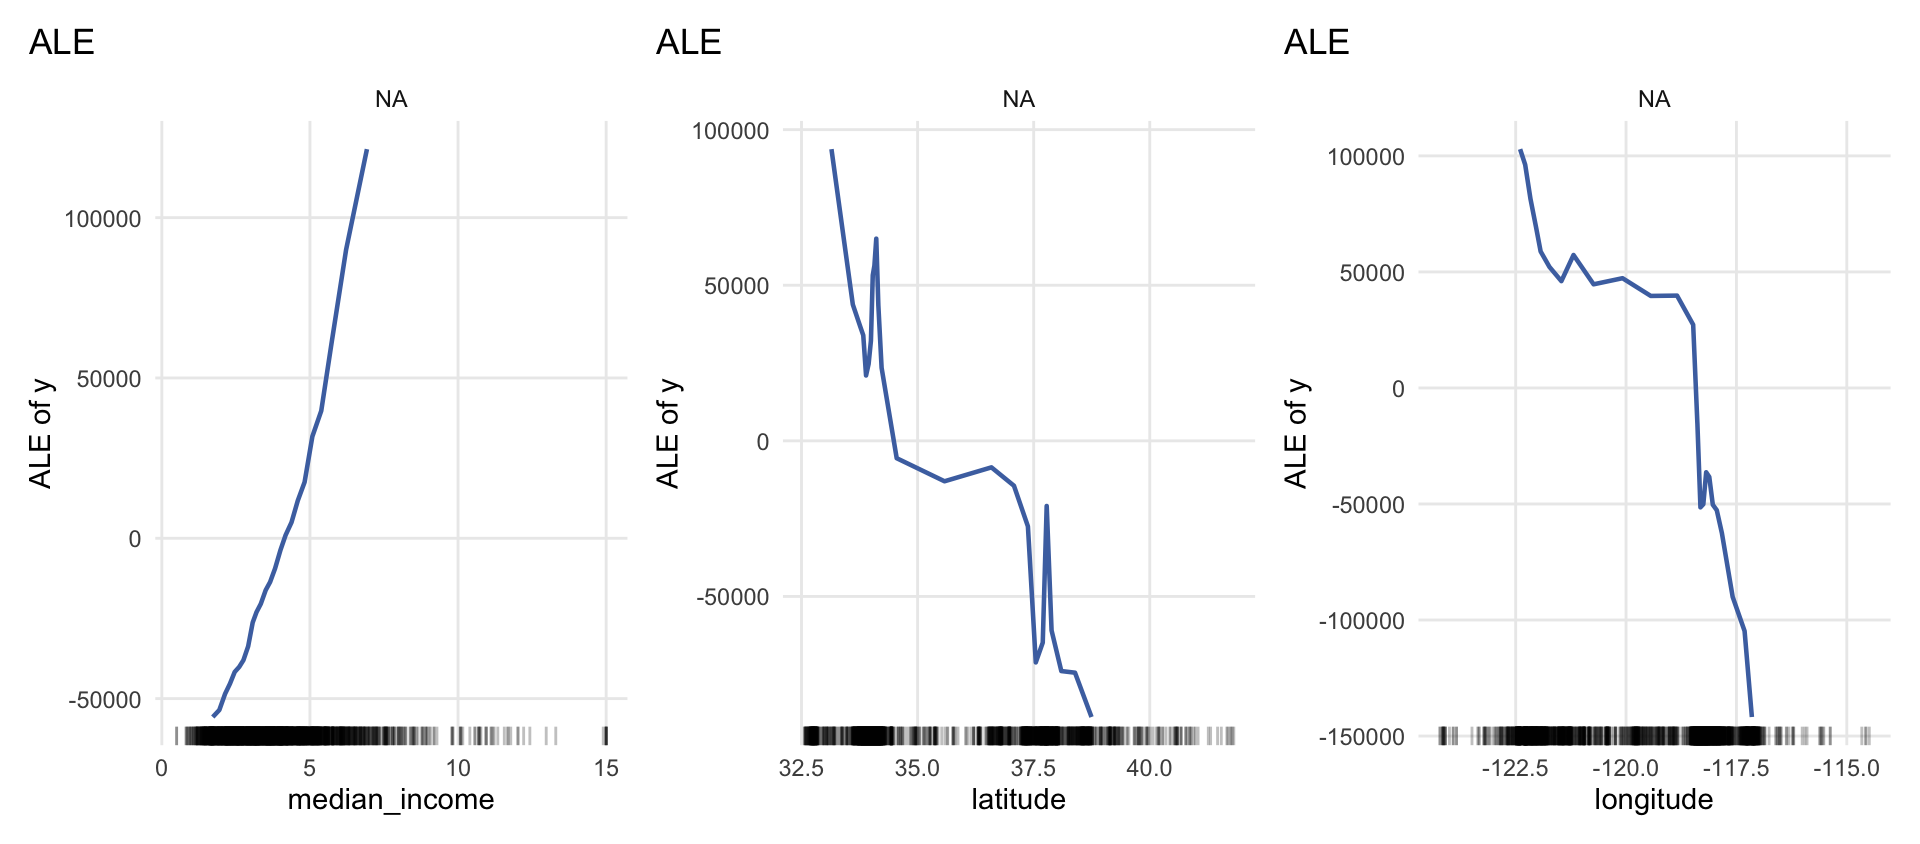
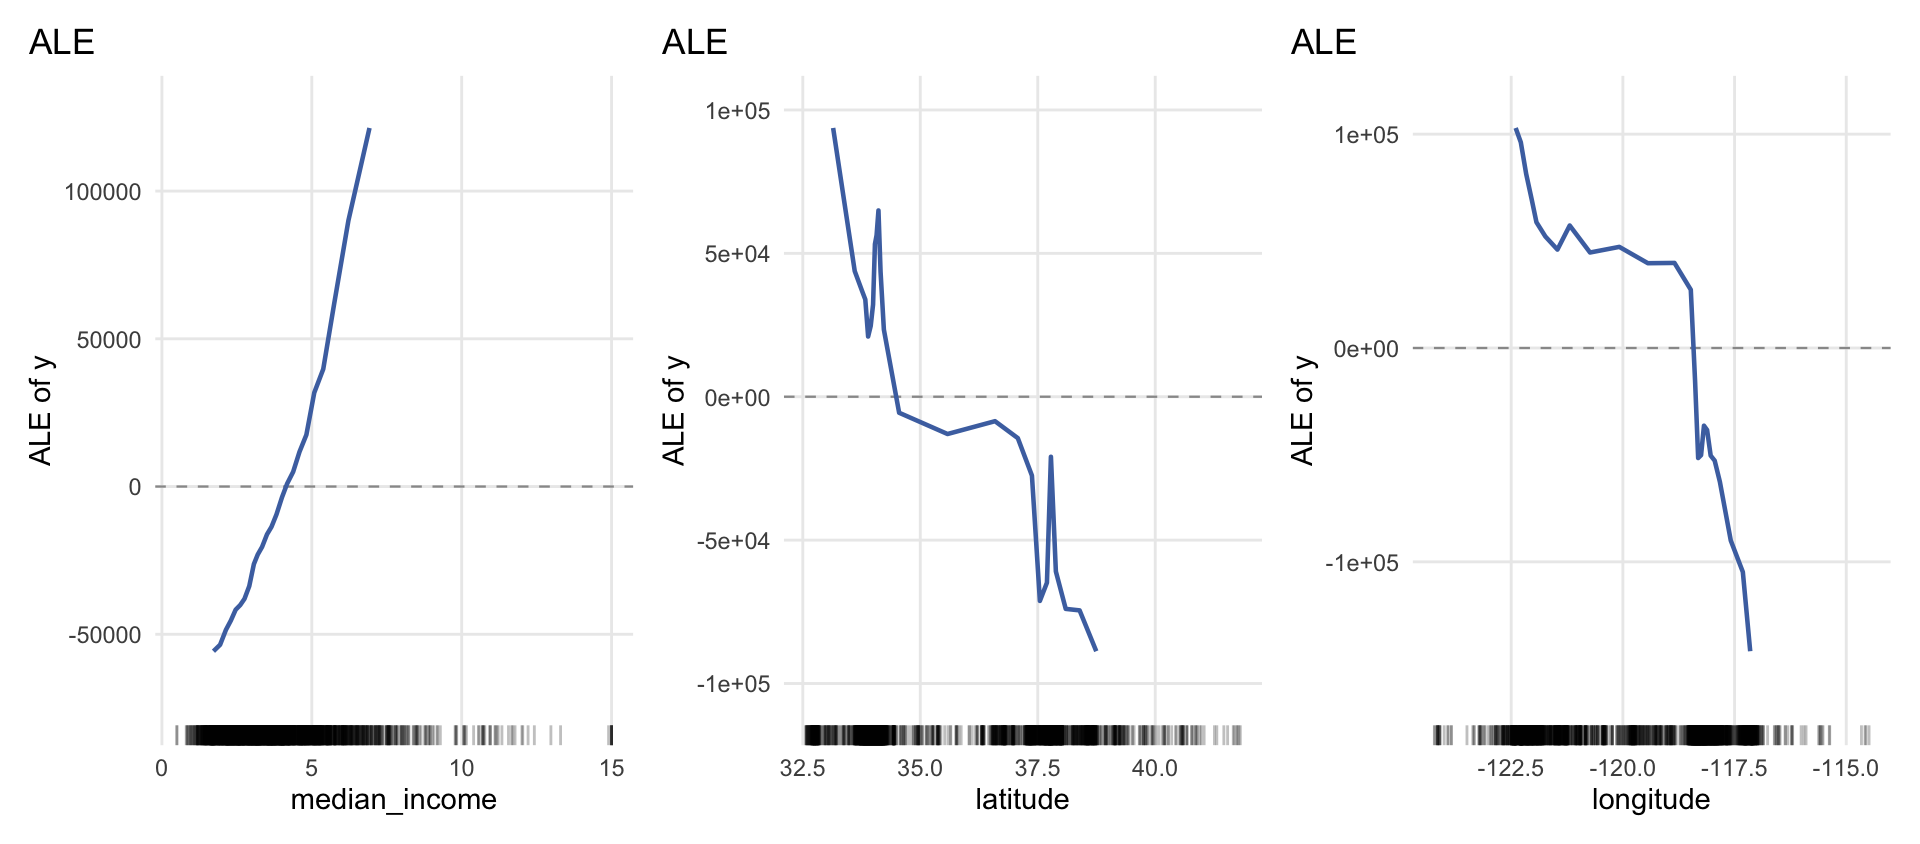
docs: update man pages and README for 0.0.8
Roxygen docs updated for gadget_regionalization (joint multi-feature
description), export_analysis_bundle (exclude_plot_types parameter),
AutoIML$plot (g2_gadget_tree and g2_pint types), make_claim_card (derived
defaults narrative), make_measurement_card (level normalization note), and
plot_gate_01_validity_helpers.

README examples simplified to omit verbose narrative fields from
make_claim_card and make_measurement_card now that Gate 0A derives
conservative defaults automatically.

diff --git a/README.md b/README.md
@@ -40,12 +40,12 @@ task$set_col_roles("personal_status_sex", add_to = "group")
 learner = lrn("classif.rpart", predict_type = "prob", maxdepth = 6L)
 ```
 
-The `ctx$claim` block is a pre-analysis declaration, not a model
-output. Before fitting anything, five questions are worth writing down:
-who is the target population, what use is intended, what is out of
-scope, where should interpretation stop, and why is this threshold
-reasonable? The wording here is illustrative; the structure is the same
-you would use in a real audit.
+The `ctx$claim` block is a pre-analysis declaration, not a model output.
+The operative part is the claim scope, semantics, stakes, and any
+decision thresholds. AutoIML can derive conservative defaults for
+non-use, prohibited interpretations, and decision-policy wording from
+those declarations, so you only need to spell them out when the analysis
+warrants narrower boundaries.
 
 ``` r
 auto = AutoIML$new(
@@ -64,30 +64,11 @@ auto$ctx$claim = make_claim_card(
   decision_spec = list(
     thresholds = seq(0.20, 0.60, by = 0.05),
     utility = list(tp = 1, fp = -0.5, fn = -1, tn = 0)
-  ),
-  target_population = "Loan applicants in the German Credit benchmark population",
-  setting = "Illustrative credit-risk screening benchmark",
-  time_horizon = "Single application review",
-  transport_boundary =
-    "Interpretation limited to applicants similar to the benchmark sample and the declared subgroup structure",
-  intended_use = "Support analyst review of credit-risk screening decisions.",
-  intended_non_use = "Not for automated approval, denial, or enforcement.",
-  prohibited_interpretations = "Causal claims; individual enforcement decisions.",
-  decision_policy_rationale =
-    paste(
-      "Thresholds reflect a conservative screening range where missed high-risk cases",
-      "are costlier than extra manual review."
-    )
+  )
 )
 
 auto$ctx$measurement = make_measurement_card(
-  level = "item",
-  missingness_plan = "Use the benchmark task encoding as provided.",
-  reliability =
-    list(note = "Observed benchmark variables are treated as recorded inputs rather than latent scales."),
-  invariance =
-    list(status = "not-applicable", note = "Subgroup comparisons are descriptive audits of observed benchmark fields."),
-  scoring_pipeline = "Use the provided encoded predictors and binary outcome without additional score construction."
+  level = "item"
 )
 auto$ctx$sensitive_features = "personal_status_sex"
 auto$ctx$alt_learners = list(
@@ -96,10 +77,11 @@ auto$ctx$alt_learners = list(
 auto$ctx$multiplicity$transport_mode = "group_performance"
 ```
 
-The measurement card is declared for the same reason. It documents how
-we are treating the variables, missingness, and subgroup comparisons,
-rather than pretending those assumptions can be inferred from the fitted
-model.
+The measurement card now only needs the part the analysis cannot infer
+reliably. Here that is just the measurement level. Gate 0B derives task-
+and pipeline-level notes for missingness and scoring automatically, and
+only asks for comparability or reliability evidence when the measurement
+type makes those claims material.
 
 ``` r
 res = auto$run()
@@ -112,7 +94,7 @@ knitr::kable(auto$report_card()[, .(gate_id, gate_name, status, summary)])
 | gate_id | gate_name | status | summary |
 |:---|:---|:---|:---|
 | G0A | Scope claim & use | pass | Claim scope set (global=TRUE, local=FALSE, decision=TRUE) with semantics=within_support. |
-| G0B | Measurement readiness | pass | Measurement readiness screened (requires user-supplied psychometric evidence; missingness summarized). |
+| G0B | Measurement readiness | pass | Measurement readiness screened (psychometric evidence is user-supplied when needed, and pipeline notes may be analysis-derived). |
 | G1 | Modeling and data validity (preflight) | pass | Predictive adequacy established with honest resampling. |
 | G2 | What is being summarized? (dependence & interactions) | warn | Claim semantics=“within_support”: dependence and/or heterogeneity detected; prefer dependence- and interaction-aware summaries (ALE/ICE + regionalization) and avoid overinterpreting simple global narratives. |
 | G3 | Calibration and decision utility | warn | Binary calibration/utility checks computed (intercept/slope, ECE, reliability, net benefit, cost-/utility sweep). |
@@ -122,11 +104,11 @@ knitr::kable(auto$report_card()[, .(gate_id, gate_name, status, summary)])
 
 **IEL (overall):** IEL-1
 
-With the claim card, measurement notes, and subgroup transport check
-filled in, the remaining warnings are substantive rather than
-setup-related: calibration, net benefit in the declared threshold range,
-and the interaction pattern that makes a simple one-feature story too
-thin.
+With the operative claim card, analysis-derived measurement notes, and
+subgroup audit in place, the remaining warnings are substantive rather
+than setup-related: calibration, net benefit in the declared threshold
+range, and the interaction pattern that makes a simple one-feature story
+too thin.
 
 ``` r
 auto$plot("g3_calibration")
@@ -145,6 +127,25 @@ auto$plot("g2_ale_2d", feature1 = "amount", feature2 = "duration", class_label =
 ```
 
 <img src="man/figures/README-classif-g2-1.png" width="49%" /><img src="man/figures/README-classif-g2-2.png" width="49%" />
+
+When Gate 2 regionalization is enabled
+(`auto$ctx$structure$regionalize = TRUE`) and the interaction screen
+finds materially heterogeneous effects, the GADGET-style views decompose
+the global effect into interpretable regions and show the split rules
+that produced those regions. If no such regions are found, the
+paper-aligned Gate 2 evidence remains the global effect plot, the
+interaction screen, and the top 2D ALE surface. Optional
+`pint_enabled = TRUE` adds a permutation-based interaction screen before
+regionalization.
+
+``` r
+if (!is.null(auto$result$gate_results$G2$artifacts$gadget_regions) &&
+    nrow(auto$result$gate_results$G2$artifacts$gadget_regions) > 0L) {
+  auto$plot("g2_gadget")
+  auto$plot("g2_gadget_tree")
+}
+auto$plot("g2_pint")
+```
 
 ``` r
 export_analysis_bundle(auto, dir = "bundle_german_credit", prefix = "german_credit")
@@ -173,12 +174,10 @@ learner = lrn(
 )
 ```
 
-The claim card here is not extra decoration; it makes the analysis
-design explicit before Gate 6 compares models. Because we restrict to
-complete cases, the declared target population, transport boundary, and
-missingness plan all refer to that filtered analysis set. Write down the
-population you are actually analyzing, not the broader one you might
-wish you had.
+The claim card here is not extra decoration; it fixes the semantics and
+scope before Gate 6 compares models. Analysis-specific transport and
+preprocessing notes can remain implicit unless you need to declare a
+narrower boundary than the task- and pipeline-level defaults.
 
 ``` r
 auto = AutoIML$new(
@@ -193,26 +192,11 @@ auto$ctx$claim = make_claim_card(
   purpose = "global_insight",
   semantics = "within_support",
   stakes = "low",
-  claims = list(global = TRUE, local = FALSE, decision = FALSE),
-  target_population = "Californian housing blocks (1990 census) with complete predictor information",
-  setting = "Illustrative housing-value benchmark",
-  time_horizon = "Cross-sectional snapshot",
-  transport_boundary =
-    "Interpretation limited to blocks similar to the observed 1990 census sample after complete-case filtering",
-  intended_use = "Identify global drivers of median house value.",
-  intended_non_use = "Not for causal policy claims or parcel-level appraisal.",
-  prohibited_interpretations = "Causal claims; individual valuation."
+  claims = list(global = TRUE, local = FALSE, decision = FALSE)
 )
 
 auto$ctx$measurement = make_measurement_card(
-  level = "item",
-  missingness_plan =
-    "Restrict the README example to complete cases so the mixed learner family shares the same input matrix.",
-  reliability =
-    list(note = "Observed benchmark variables are treated as recorded inputs rather than latent scales."),
-  invariance =
-    list(status = "not-applicable", note = "Subgroup comparisons are descriptive audits of observed benchmark fields."),
-  scoring_pipeline = "Use the provided encoded predictors and numeric outcome without additional score construction."
+  level = "item"
 )
 auto$ctx$sensitive_features = "ocean_proximity"
 auto$ctx$alt_learners = list(
@@ -246,7 +230,7 @@ knitr::kable(auto$report_card()[, .(gate_id, gate_name, status, summary)])
 | gate_id | gate_name | status | summary |
 |:---|:---|:---|:---|
 | G0A | Scope claim & use | pass | Claim scope set (global=TRUE, local=FALSE, decision=FALSE) with semantics=within_support. |
-| G0B | Measurement readiness | pass | Measurement readiness screened (requires user-supplied psychometric evidence; missingness summarized). |
+| G0B | Measurement readiness | pass | Measurement readiness screened (psychometric evidence is user-supplied when needed, and pipeline notes may be analysis-derived). |
 | G1 | Modeling and data validity (preflight) | pass | Predictive adequacy established with honest resampling. |
 | G2 | What is being summarized? (dependence & interactions) | warn | Claim semantics=“within_support”: dependence and/or heterogeneity detected; prefer dependence- and interaction-aware summaries (ALE/ICE + regionalization) and avoid overinterpreting simple global narratives. |
 | G5 | Stability and robustness | pass | Permutation-based stability check suggests robust importance ordering under bootstrap perturbations. |
